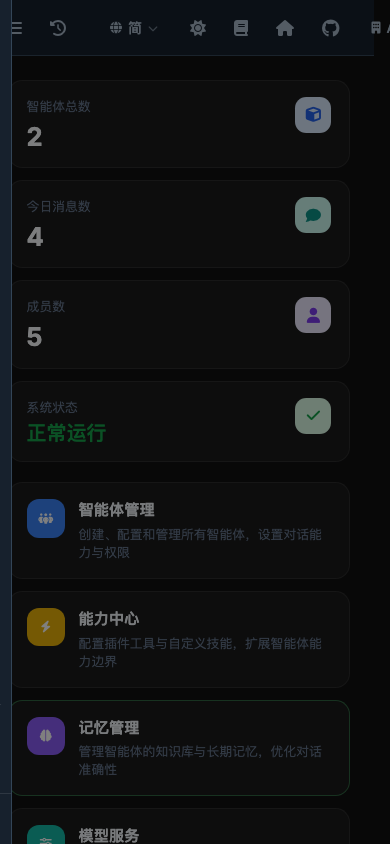
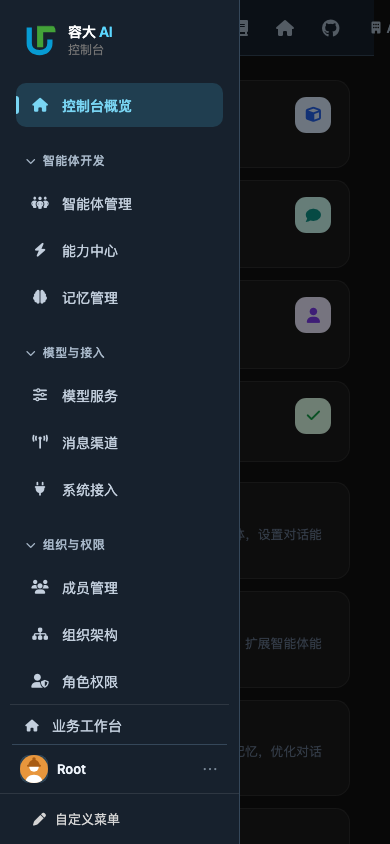
docs: record rdai navigation acceptance and deferred desktop scope

diff --git a/openspec/changes/sync-master-to-rdai-20261021/tasks.md b/openspec/changes/sync-master-to-rdai-20261021/tasks.md
@@ -122,7 +122,7 @@
 - [ ] 12.3 【延期】验证 Desktop 产物、业务工作台命名、菜单/外链、技能/API 配置、流式渲染及滚动；真实 Web/Desktop 双端菜单读写和并发验证，不能以纯 Web 多窗口代替。
 - [ ] 12.4 【延期】执行 Windows/macOS 原生隔离与 v2/v3/旧端兼容、真安装包启动/升级/回退及异常恢复；未测平台/能力保持未验证，只有相应证据齐备后才能声明桌面通过或发布对应包。
 
-本轮 Web 交付完成：PR #2 合入 `c7b981b0068e817cd0cef4fab28f19f0385e2bf1`，合入树与受测候选一致，合入后重新启动隔离 Web 服务，真实模型 write/read、产物预览、回溯、工作区读取和下载冒烟通过。后续补验已完成真实 CI 阻断与恢复，任务共 54/58 完成；12.1–12.4 已按用户最新“停止桌面端的测试”指令停止并延期，保留已得结果和未完成缺口，不提前归档。
+本轮 Web 交付完成：PR #2 合入 `c7b981b0068e817cd0cef4fab28f19f0385e2bf1`，合入树与受测候选一致，合入后重新启动隔离 Web 服务，真实模型 write/read、产物预览、回溯、工作区读取和下载冒烟通过。后续补验已完成真实 CI 阻断与恢复，新增导航任务前共 54/58 完成；12.1–12.4 已按用户最新“停止桌面端的测试”指令停止并延期，保留已得结果和未完成缺口，不提前归档。
 
 
 ## 13. 用户验收后的 Web 导航修正（2026-10-21）
@@ -130,4 +130,6 @@
 - [x] 13.1 更新 proposal、design 和导航 delta：保留业务工作台／控制台两个入口，区域内沿用 master 页面和组件，不新增菜单存储或路由系统。
 - [x] 13.2 接回固定区域入口，按既有路由及权威投影显示菜单，主要菜单沿用合并前 rdai 的三语言名称、默认位置、分组和顺序，区域切换位于底部账号区上方，保留深链接、品牌、菜单编辑/重置和完整偏好数据。
 - [x] 13.3 在真实 Web 验证区域切换、刷新/前进后退、普通成员拒绝、未保存编辑保护、本人菜单保存/重置及移动侧栏；运行受影响回归与必要 Web 门禁并记录证据。
-- [ ] 13.4 更新来源审查、Web 验收、PR 和本地 localhost:9899 交付，完成 OpenSpec 严格校验、delta/重叠核对与实际 required CI；桌面测试仍停止，不据此归档全 change。
+- [x] 13.4 更新来源审查、Web 验收、PR 和本地 localhost:9899 交付，完成 OpenSpec 严格校验、delta/重叠核对与实际 required CI；桌面测试仍停止，不据此归档全 change。
+
+本次导航修正及 Web 验收任务 13.1–13.4 已完成，总计 **58/62**；剩余四项均为用户已停止的 Desktop 后补验收，保持延期，不归档为全端完成。实际 required CI 证据见 `evidence/results/navigation/ci-run-749.json`。

diff --git a/openspec/changes/sync-master-to-rdai-20261021/evidence/navigation-areas.md b/openspec/changes/sync-master-to-rdai-20261021/evidence/navigation-areas.md
@@ -18,3 +18,5 @@
 - localhost:9899 的实际用户页面已人工核对名称、顺序和底部切换；保留账号已有品牌文案。实际用户截图仅保存在本机预览目录，不纳入仓库。
 - 受影响后端补充集合（sync contract、menu grant、navigation mode、console menu mapping）为 67 passed / 2 failed。两个失败是 `ZeroVisibilityRegressionTests::test_a_member_keeps_every_page_it_could_already_open` 和 `test_a_tenant_admin_keeps_its_management_pages`，涉及 migration 20 的历史 `workbench.artifacts` 投影；同命令选中两例在原 rdai `0bd9406e` 上也失败。该历史基线问题不计为本次通过项，当前修正没有改动后端迁移或权限。
[1 lines of base64/hex data omitted]
+
[1 lines of base64/hex data omitted]

diff --git a/openspec/changes/sync-master-to-rdai-20261021/evidence/web-acceptance.md b/openspec/changes/sync-master-to-rdai-20261021/evidence/web-acceptance.md
@@ -63,3 +63,10 @@
 翻译/外观补充检查 33 项通过，现用字典检查已纳入必跑清单；页头语言选择不写入实例配置。最终补测修复个人工作区产物索引、SAK 聊天路由与 403/409 状态映射。20 个核心/受影响后端文件共 376 项通过，无失败或跳过；完整同步行为门禁在同一摘要上通过，39 条浏览器场景通过。未受影响的广泛后端/前端证据保留原摘要，不伪装为重新执行。
 
 真实链路的脱敏记录见 [real-provider-status.json](results/real-provider-status.json)、[Web 对话](results/real-chat-result.json)、[文件闭环](results/real-file-browser-result.json) 和 [服务账号 API](results/real-api-result.json)。截图仅含合成数据。
+
+
+## 用户验收后的导航调整
+
+主要菜单默认名称、分组、位置和顺序采用合并前 rdai；业务工作台／控制台切换恢复到底部账号区上方。master 仍是页面组件、菜单编辑器和路由交互的基准。本人自定义布局、稳定深链接和权威权限投影保留。裁定和逐项结果见 [navigation-areas.md](navigation-areas.md)。
+
+本次本地必要门禁通过：44 个真实浏览器场景、0 页面错误，包含 16 个菜单／业务验收场景。移动截图等待抽屉完整展开后再次执行菜单／业务浏览器集合，16/16 通过。额外后端集合 67 通过、2 个可在原 rdai 复现的历史迁移断言失败，单独记录，不算通过。Gitea run 749 已通过当前运行代码的 required Web 检查；仅文档收尾后的最终 PR head 继续按相同保护复验；桌面测试已停止，12.1–12.4 保持延期。

diff --git a/openspec/changes/sync-master-to-rdai-20261021/evidence/ci-status.md b/openspec/changes/sync-master-to-rdai-20261021/evidence/ci-status.md
@@ -11,6 +11,10 @@ Evidence: [results/ci-enforcement](results/ci-enforcement). The runner uses an i
 
 Older `production-readiness.yml` jobs still request the independent `macos-production` / `linux-production` labels. Their queued status is not presented as a pass. This closes the inherited Web CI enforcement gap referenced by GAP-007 / task 7.3; it does not establish unrelated full production or image acceptance.
 
+## Navigation follow-up
+
[1 lines of base64/hex data omitted]
+
 ## Prior delivery observations (historical)
 
 # CI status (task 9.4 remains open)
